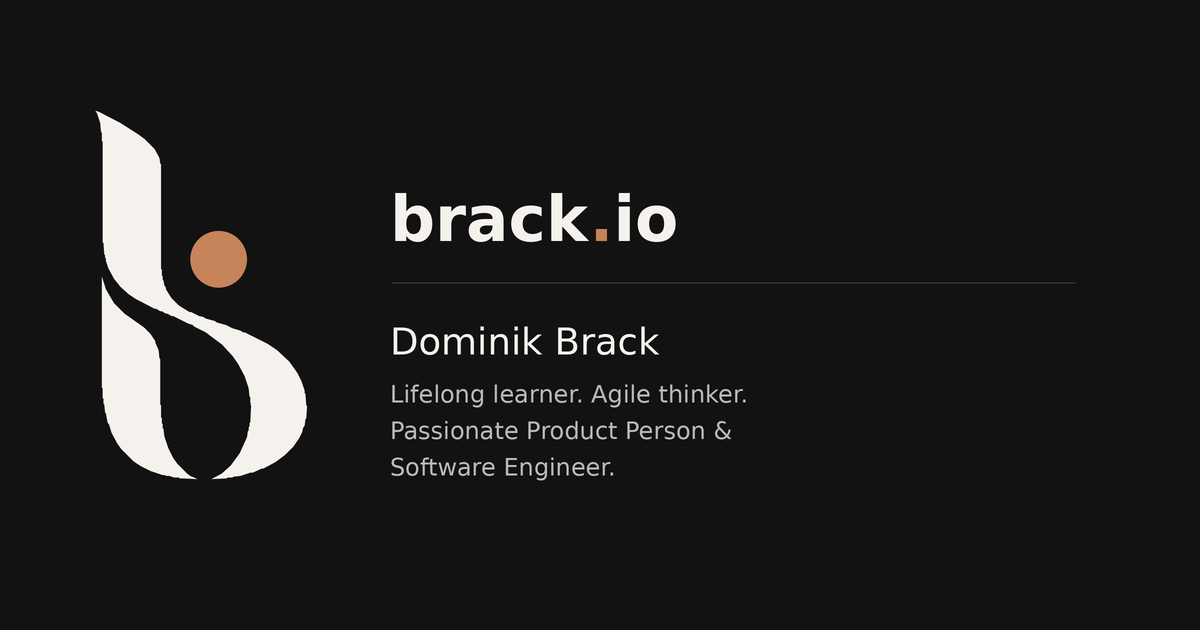
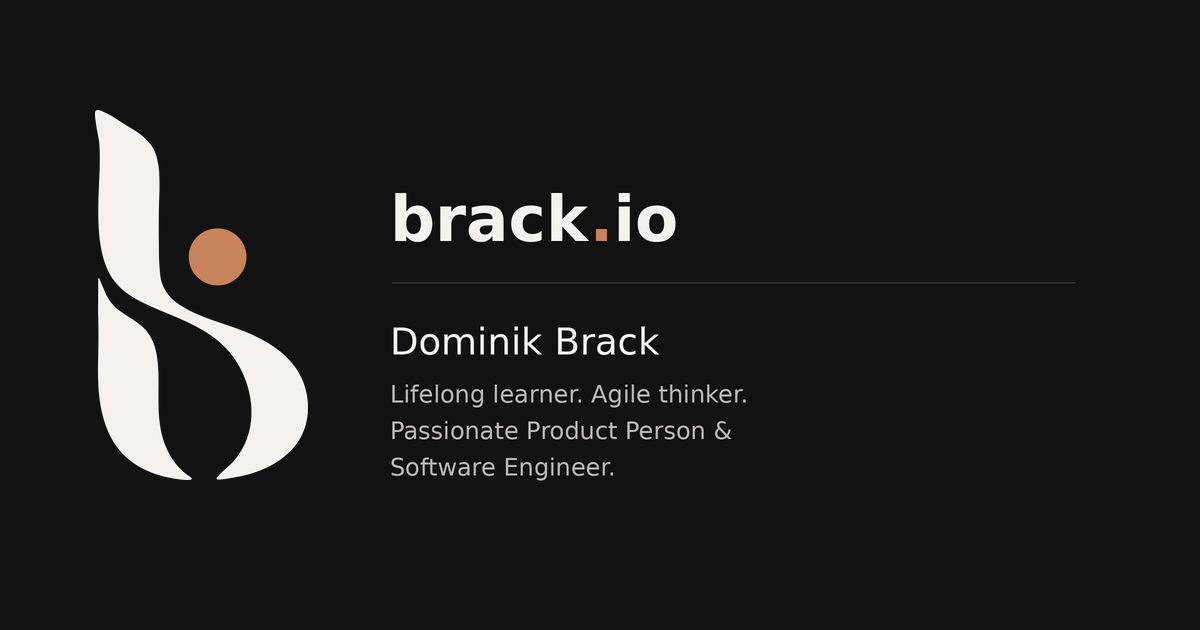
Update brand artwork

diff --git a/README.md b/README.md
@@ -16,8 +16,8 @@ Run `npm install` once, then use:
 The supplied artwork lives in `brand-waypoint-assets/`. Published copies in
 `public/brand/` retain the supplied geometry and bytes. The header uses the
 transparent SVGs; the portrait, site copy, project lists, and navigation are
-unchanged. `public/favicon.svg` adds a system color-scheme media query to the
-supplied favicon geometry. PNG and ICO fallbacks, an Apple touch icon, and
+unchanged. The supplied dark/light SVG favicons are referenced directly and
+switched by the existing theme script. PNG and ICO fallbacks, an Apple touch icon, and
 192/512px manifest icons are also provided. Manifest icons use the dark variant.
 
 The theme control shows three visible icons: a monitor for Automatic (system),
@@ -65,6 +65,26 @@ Integration verification (2026-10-14):
   Cloudflare adapter warning about runtime image optimization. Browser checks
   used the Astro development server because sandbox restrictions prevented the
   separate production preview from binding its ports.
+
+## Approved asset refresh (2026-10-17)
+
+The corrected external asset pack is consolidated in `brand-waypoint-assets/`.
+Its SVGs, PNGs, ICO, social preview, and supplied README are preserved byte for
+byte. The pack is flat despite the folder prefixes in its supplied README.
+The `@2048` raster masters replace the obsolete `-1024` files; proof renders
+remain source references. Only assets used by the site are copied into
+`public/brand/`; unused 48px and light 192/512px public copies were removed.
+The ICO now contains 16px and 32px images, reflected in the layout metadata.
+The obsolete custom adaptive SVG favicon was removed; the layout defaults to
+the supplied dark SVG and the theme script selects the matching supplied SVG
+for Dark, Light, or Automatic mode.
+
+Both header themes and their favicon/touch-icon links were checked in the
+browser. The social preview remains exactly 1200 × 630 and both social metadata
+URLs remain `https://brack.io/brand/social-preview-1200x630.png`. Asset equality
+and SVG geometry tests now validate the corrected pack. Supplied SVG whitespace
+is preserved deliberately, including trailing spaces on the blank second line
+of the two logo masters.
 
 ## Search indexing
 

diff --git a/brand-waypoint-assets/README.md b/brand-waypoint-assets/README.md
@@ -1,9 +1,18 @@
-# brack.io — The Waypoint asset pack
+# brack.io Waypoint clean-curve assets
 
-- `waypoint-dark.svg`, `waypoint-light.svg`: transparent vector logo artwork (dark/light refers to the intended background).
-- `waypoint-*-1024.png`: high-resolution transparent raster logo.
-- `favicon-*.svg`, `favicon-*-{16,32,48,180,192,512}.png`: themed square icon assets.
-- `favicon.ico`: legacy fallback.
-- `social-preview-1200x630.png`: no portrait, no new slogan.
+Rebuilt from the approved Option A reference using clean spline-based vector paths rather than the earlier jagged autotrace.
 
-Palette: #121212 charcoal, #F5F2ED ivory, #C7835A copper.
+Files included:
+- `logo/waypoint-dark.svg`
+- `logo/waypoint-light.svg`
+- `logo/waypoint-dark@2048.png`
+- `logo/waypoint-light@2048.png`
+- `favicon/` dark and light SVG/PNG variants
+- `preview/` proof renders on dark/light backgrounds
+
+Palette:
+- Charcoal `#121212`
+- Ivory `#F5F2ED`
+- Copper `#C7835A`
+
+ViewBox: `0 0 277 471`
